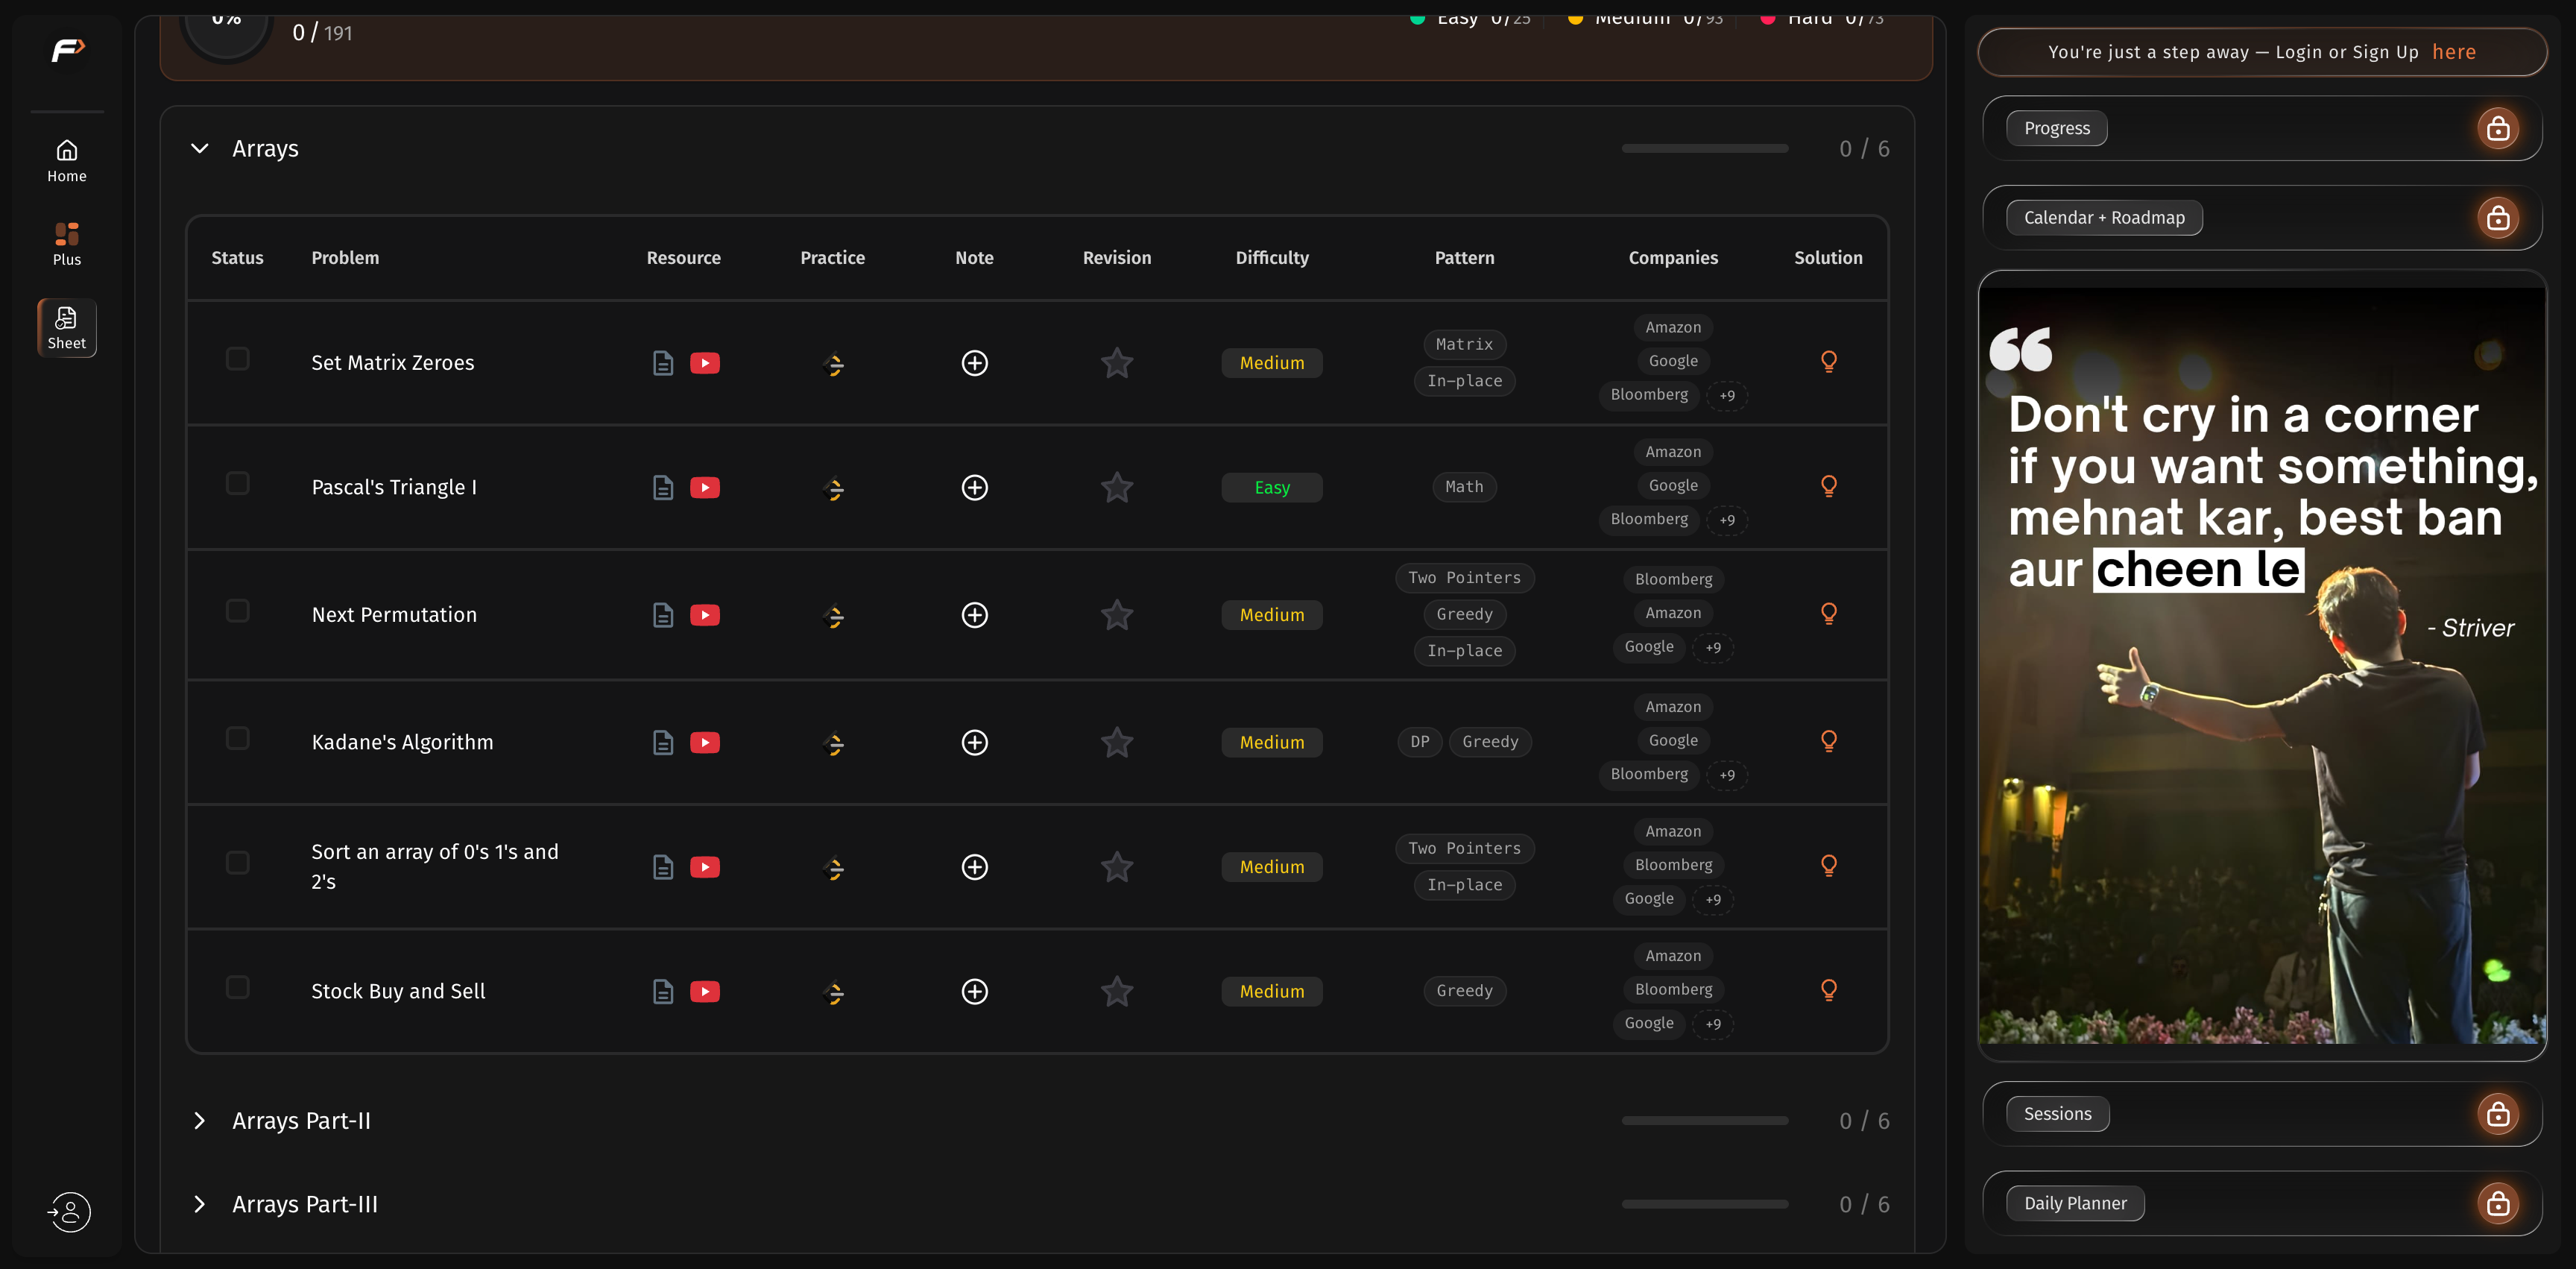
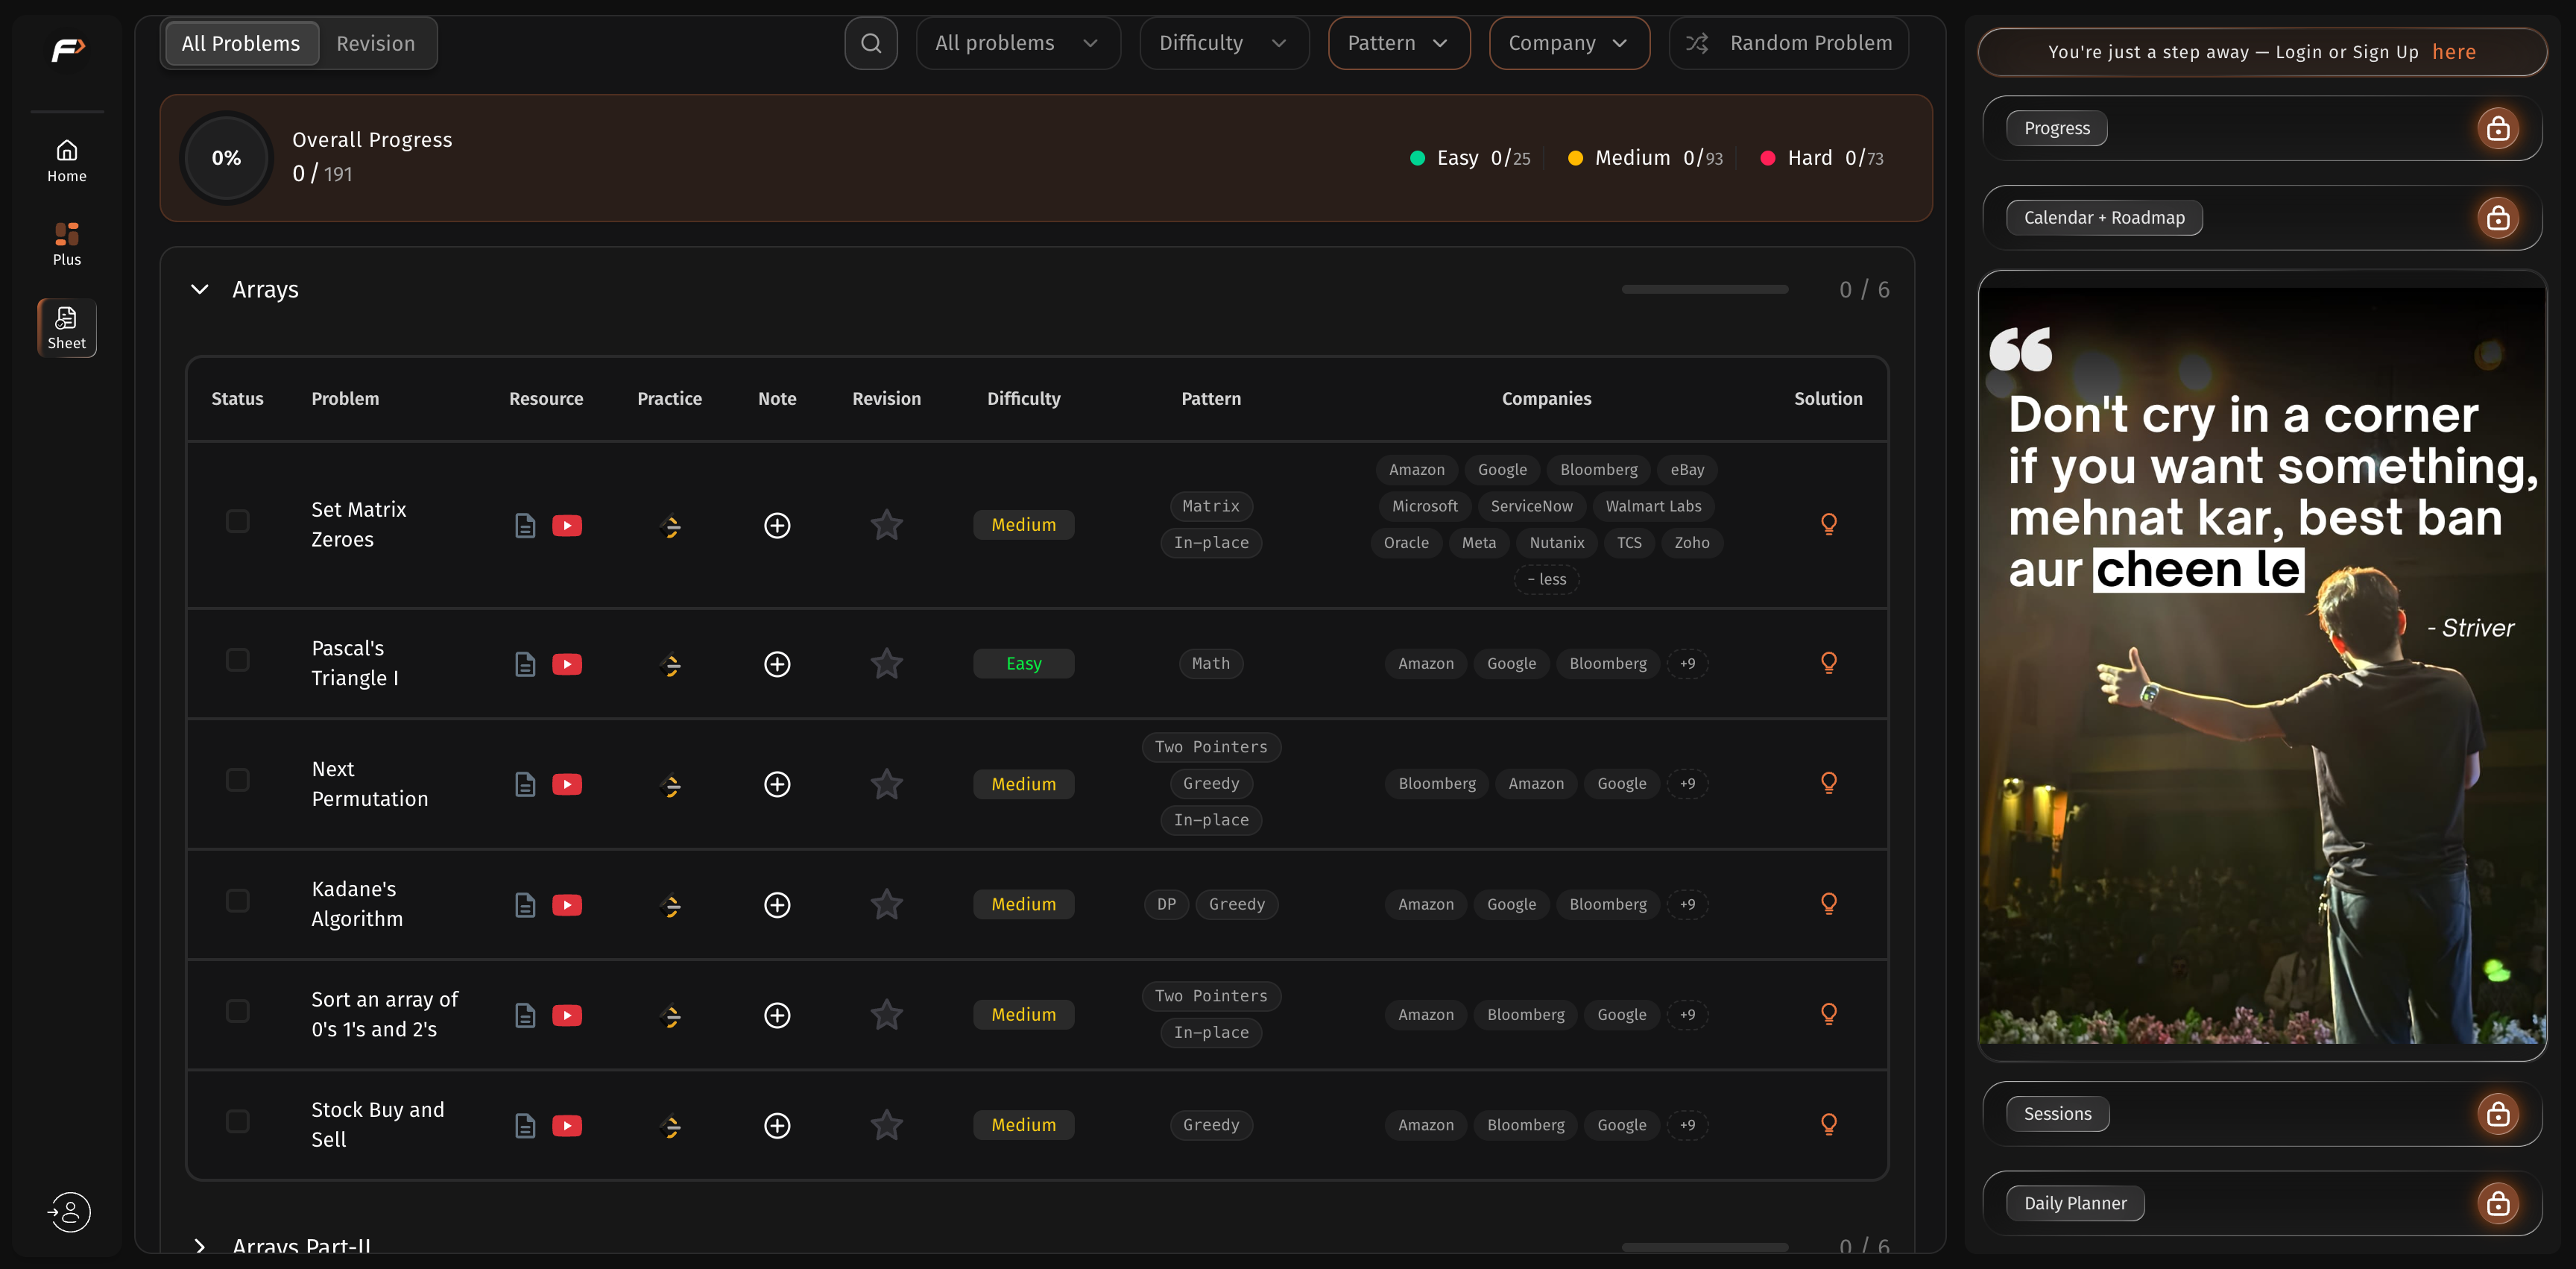
Update README screenshot to current UI with company filters and expanded chip list

diff --git a/README.md b/README.md
@@ -5,7 +5,7 @@ on takeuforward.org with **pattern tags and company tags for all 191 problems** 
 you can see, at a glance, which technique each problem's optimal solution uses, which
 companies ask it, and drill problems by pattern instead of by sheet order.
 
-![Pattern and Companies columns on the sheet](docs/screenshot.png)
+![Pattern and Companies columns, toolbar filters, and an expanded company list](docs/screenshot.png)
 
 ## Features
 